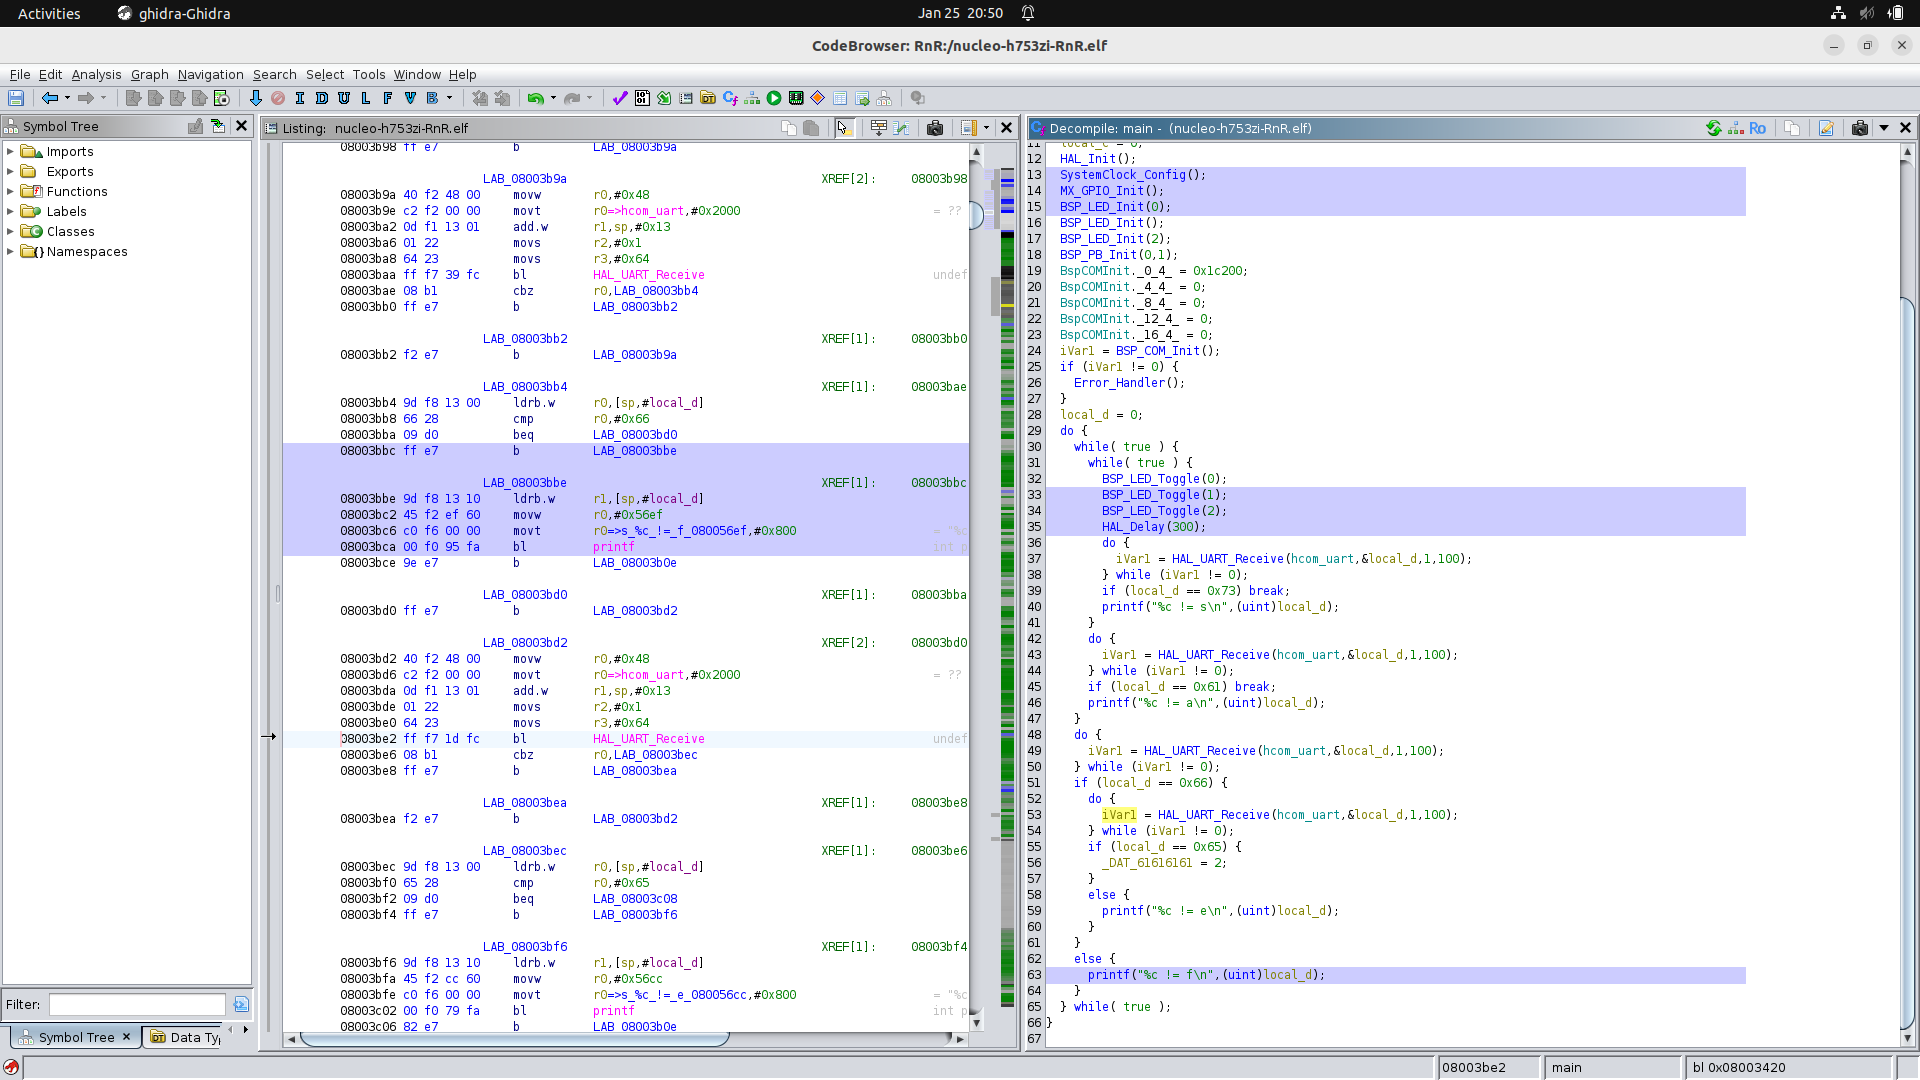
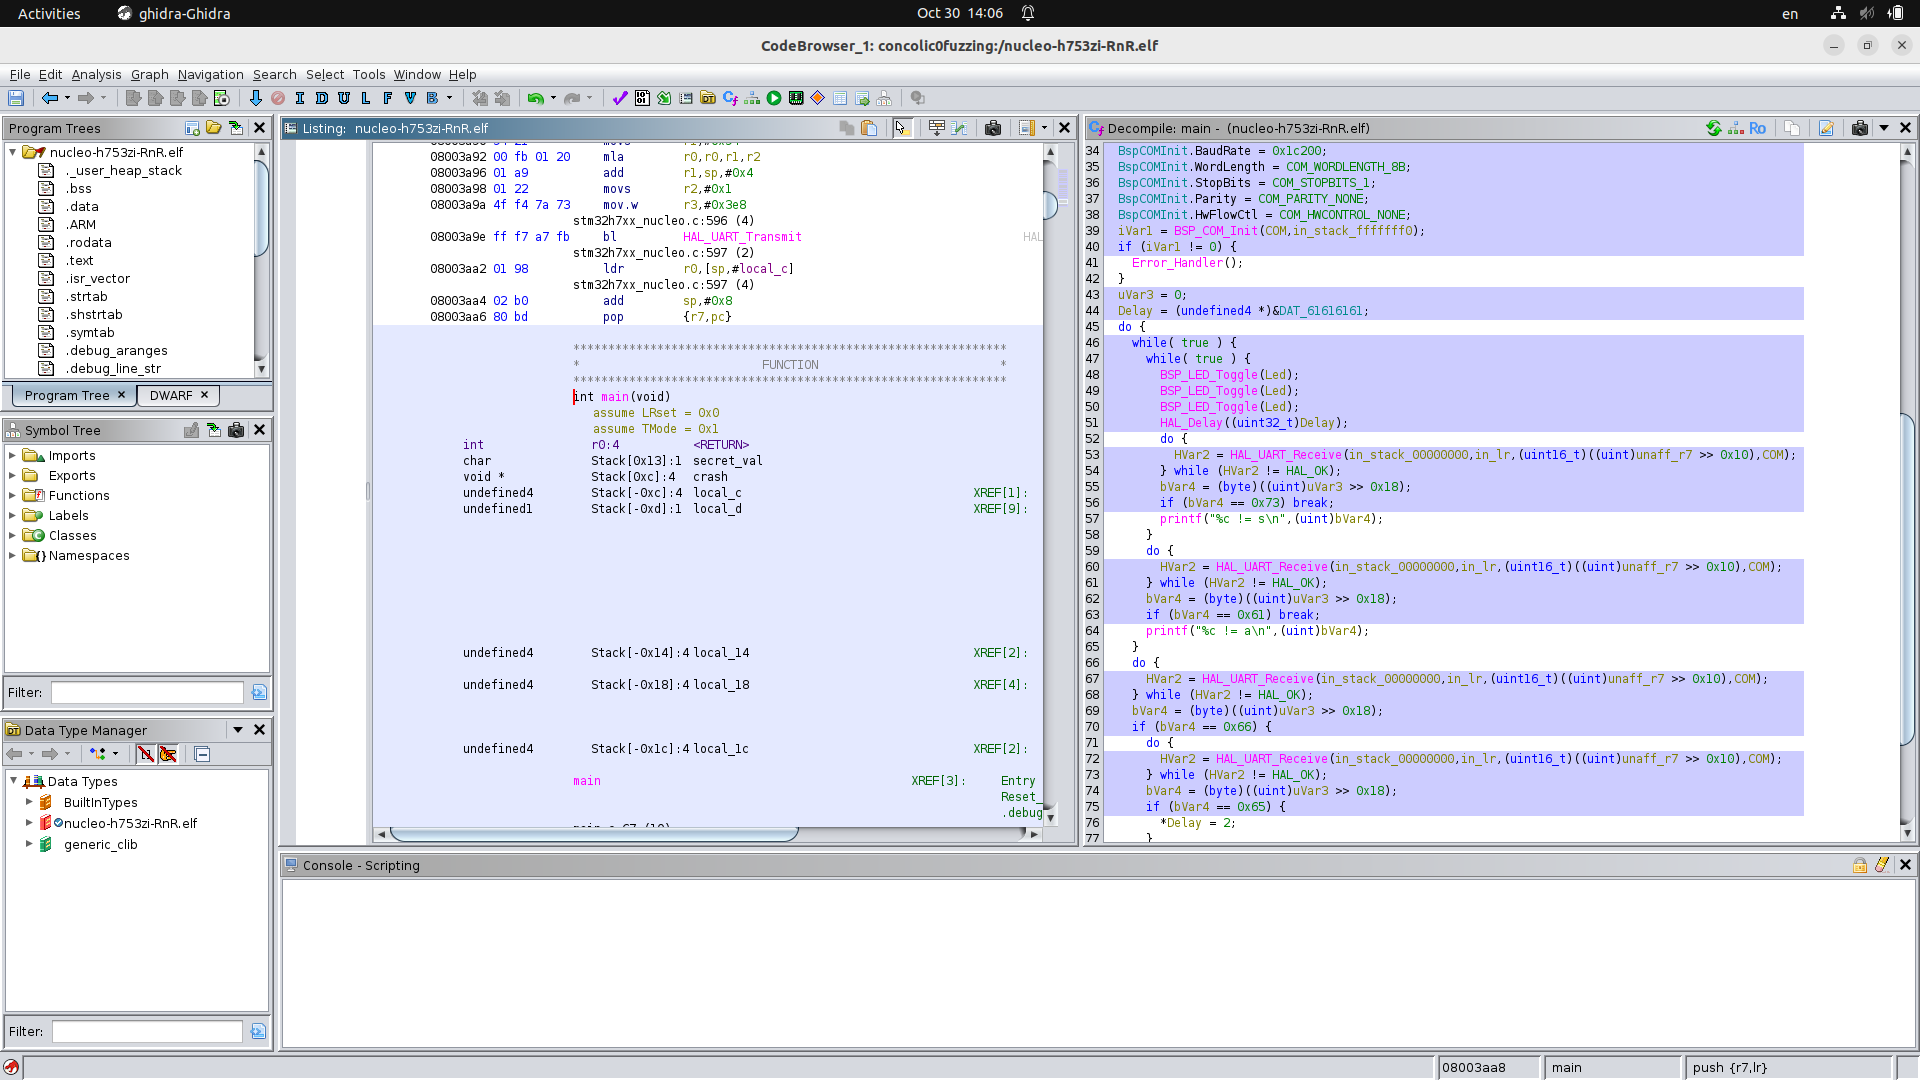
Improve env setup and update imgs

diff --git a/README.md b/README.md
@@ -18,12 +18,18 @@ curl https://sh.rustup.rs -sSf | sh
 
 Then run `./build_fuzzer_and_concolic_executor.sh` to build triforce-qemu, concolic-executor, AFL++4.34.
 
+After building, add `symcc_fuzzing_helper` to your `PATH` for future Bash or Zsh terminals:
+```sh
+./setup_env.sh
+```
+
+
 # Run a test fuzzing
 
 Run the fuzzer first.
 ``` 
-mkdir ./AFLplusplus/input
-mkdir ./AFLplusplus/output
+mkdir -p ./AFLplusplus/input
+mkdir -p ./AFLplusplus/output
 perl -E 'say "A" x 80' > AFLplusplus/input/input1
 
 ./AFLplusplus/afl-fuzz                                   \
@@ -62,6 +68,52 @@ The symcc fuzzing helper watches new test cases of the main instance, and pick t
 ![Symcc fuzzing helper with full system concolic executor](./imgs/symcc_fuzzing_helper.png)
 
 
+## Reproduce A Crash Case
+
+```bash
+./triforce-qemu/build/qemu-system-arm   \
+-M rehost-fuzzing -display none   \
+-kernel ./fw-example/nucleo753zi/aflConfiguration.json \
+-aflFile ./AFLplusplus/output/fuzzer01/crashes/id:000000,sig:06,sync:symqemu,src:000423   \
+```
+
+You will see in the terminal:
+```
+[delay_hook_0]
+Unassigned mem write 0000000040004820 = 0x8
+Unassigned mem write 0000000040004800 = 0x62626242
+Unassigned mem write 0000000040004808 = 0x413e3e3e
+Unassigned mem write 0000000040004808 = 0x62836262
+Unassigned mem write 0000000040004808 = 0xb4b4d3b4
+Unassigned mem write 0000000040004808 = 0xb4b4b4b4
+Unassigned mem write 0000000040004808 = 0x62626262
+Unassigned mem write 0000000061616161 = 0x2
+Aborted
+```
+where a out-of-bound memory access takes place, being recorded via logging.
+
+
+## Visualizing coverage in Ghidra Cartographer
+
+If you want to see a colorful coverage in Ghidra, export observed address ranges as EZCOV coverage:
+
+```bash
+./triforce-qemu/build/qemu-system-arm   \
+-M rehost-fuzzing -display none   \
+-kernel ./fw-example/nucleo753zi/aflConfiguration.json \
+-aflFile ./AFLplusplus/output/fuzzer01/crashes/id:000000,sig:06,sync:symqemu,src:000423   \
+```
+
+Open the matching `fw-example/nucleo753zi/nucleo-h753zi-RnR.elf` in Ghidra,
+with [Cartographer](https://github.com/nccgroup/Cartographer) installed. Select
+**Tools → Code Coverage → Load Code Coverage File(s)** and load the EZCOV file.
+**Window → Code Coverage** opens the function coverage table; the Listing,
+Decompiler and Function Graph can show the executed regions.
+
+![Cartographer coverage highlights in the Ghidra Listing and Decompiler for the NUCLEO-H753ZI firmware](imgs/ghidra-coverage.png)
+
+
+
 
 # Firmware Configuration
 
@@ -77,35 +129,7 @@ active logging effect. The tutorial documents these details and includes a
 complete configuration and commands for replay, AFL, and the concolic helper.
 
 
-## Visualizing coverage in Ghidra Cartographer
 
-Export observed address ranges as EZCOV coverage:
-
-```sh
-./triforce-qemu/build/qemu-system-arm \
-  -M rehost-fuzzing -display none \
-  -kernel runs/nucleo753zi.json -aflFile runs/input/seed \
-  -covFile runs/seed.ezcov
-```
-
-Open the matching `fw-example/nucleo753zi/nucleo-h753zi-RnR.elf` in Ghidra,
-with [Cartographer](https://github.com/nccgroup/Cartographer) installed. Select
-**Tools → Code Coverage → Load Code Coverage File(s)** and load the EZCOV file.
-**Window → Code Coverage** opens the function coverage table; the Listing,
-Decompiler and Function Graph can show the executed regions.
-
-![Cartographer coverage highlights in the Ghidra Listing and Decompiler for the NUCLEO-H753ZI firmware](imgs/ghidra-coverage.png)
-
-*A view from this project: Cartographer highlights loaded coverage ranges in the
-disassembly and decompiled C. This illustration is separate from the runs in
-the [validation record](docs/validation.md).*
-
-The overlay describes the ranges in the loaded file. The current exporter does
-not include every block-entry PC observed in the execution log; see
-[the export checks](docs/validation.md#coverage-export). An uncolored region is
-therefore not proof that execution never reached it. The overlay also does not
-measure physical-device coverage or prove a hybrid-fuzzing advantage. Use the
-same firmware image and address mapping in Ghidra and the emulator.
 
 # Utility
 * `utils/aggregate_queue_cov.sh`: make a cumulative code coverage;
